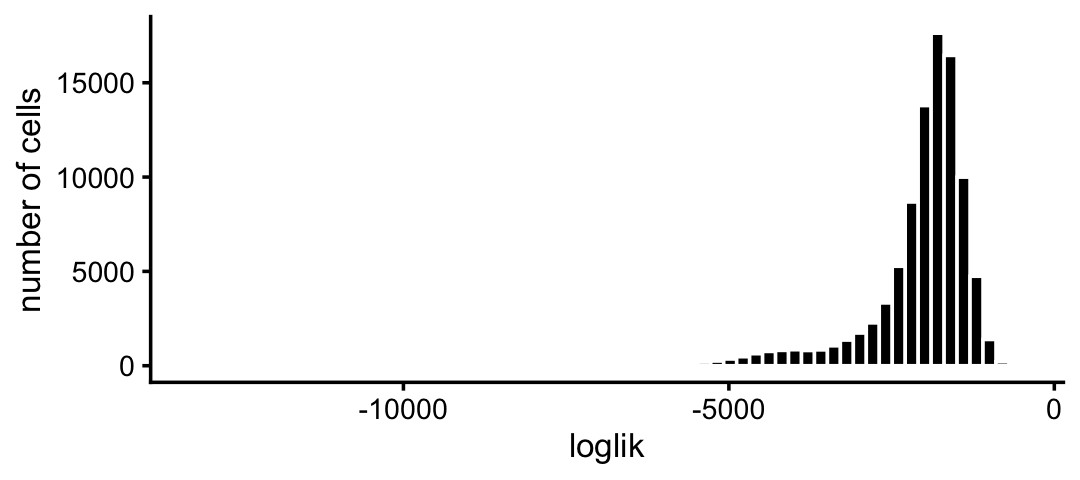
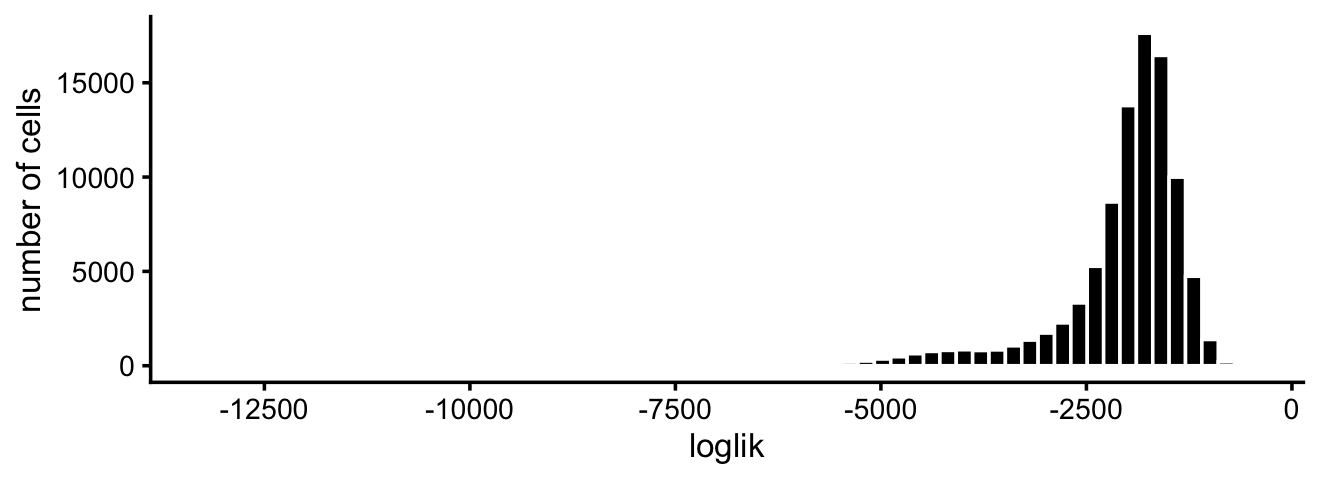
Added scatterplots to loglik_purified_pbmc analysis.

diff --git a/docs/loglik_purified_pbmc.html b/docs/loglik_purified_pbmc.html
@@ -414,16 +414,16 @@ This reproducible <a href="http://rmarkdown.rstudio.com">R Markdown</a> analysis
 <div class="panel panel-default">
 <div class="panel-heading">
 <p class="panel-title">
-<a data-toggle="collapse" data-parent="#workflowr-checks" href="#strongRepositoryversionstrongahrefhttpsgithubcomstephenslabsinglecelltopicstree8e9270771220b3809096bd8e904e0ac6025f418dtargetblank8e92707a"> <span class="glyphicon glyphicon-ok text-success" aria-hidden="true"></span> <strong>Repository version:</strong> <a href="https://github.com/stephenslab/single-cell-topics/tree/8e9270771220b3809096bd8e904e0ac6025f418d" target="_blank">8e92707</a> </a>
+<a data-toggle="collapse" data-parent="#workflowr-checks" href="#strongRepositoryversionstrongahrefhttpsgithubcomstephenslabsinglecelltopicstree08811819bd1abba43da9df88746b8385cda47a9ctargetblank0881181a"> <span class="glyphicon glyphicon-ok text-success" aria-hidden="true"></span> <strong>Repository version:</strong> <a href="https://github.com/stephenslab/single-cell-topics/tree/08811819bd1abba43da9df88746b8385cda47a9c" target="_blank">0881181</a> </a>
 </p>
 </div>
[2 lines of base64/hex data omitted]
 <div class="panel-body">
 <p>
 Great! You are using Git for version control. Tracking code development and connecting the code version to the results is critical for reproducibility.
 </p>
 <p>
-The results in this page were generated with repository version <a href="https://github.com/stephenslab/single-cell-topics/tree/8e9270771220b3809096bd8e904e0ac6025f418d" target="_blank">8e92707</a>. See the <em>Past versions</em> tab to see a history of the changes made to the R Markdown and HTML files.
+The results in this page were generated with repository version <a href="https://github.com/stephenslab/single-cell-topics/tree/08811819bd1abba43da9df88746b8385cda47a9c" target="_blank">0881181</a>. See the <em>Past versions</em> tab to see a history of the changes made to the R Markdown and HTML files.
 </p>
 <p>
 Note that you need to be careful to ensure that all relevant files for the analysis have been committed to Git prior to generating the results (you can use <code>wflow_publish</code> or <code>wflow_git_commit</code>). workflowr only checks the R Markdown file, but you know if there are other scripts or data files that it depends on. Below is the status of the Git repository when the results were generated:
@@ -447,7 +447,12 @@ Ignored files:
     Ignored:    output/pulseseq/rds/
 
 Untracked files:
+    Untracked:  .DS_Store
+    Untracked:  analysis/clustering-pbmc-purified.rds
     Untracked:  plots/
+
+Unstaged changes:
+    Modified:   analysis/clusters_purified_pbmc.Rmd
 
 </code></pre>
 <p>
@@ -486,6 +491,40 @@ Message
 </tr>
 </thead>
 <tbody>
+<tr>
+<td>
+Rmd
+</td>
+<td>
+<a href="https://github.com/stephenslab/single-cell-topics/blob/08811819bd1abba43da9df88746b8385cda47a9c/analysis/loglik_purified_pbmc.Rmd" target="_blank">0881181</a>
+</td>
+<td>
+Peter Carbonetto
+</td>
+<td>
+2021-01-04
+</td>
+<td>
+workflowr::wflow_publish(“loglik_purified_pbmc.Rmd”)
+</td>
+</tr>
+<tr>
+<td>
+html
+</td>
+<td>
+<a href="https://rawcdn.githack.com/stephenslab/single-cell-topics/9f648fdc27478b5c1c848d49ad45b6230293d0a5/docs/loglik_purified_pbmc.html" target="_blank">9f648fd</a>
+</td>
+<td>
+Peter Carbonetto
+</td>
+<td>
+2021-01-04
+</td>
+<td>
+Added histograms to loglik_purified_pbmc analysis.
+</td>
+</tr>
 <tr>
 <td>
 Rmd
@@ -580,26 +619,137 @@ samples &lt;- readRDS(&quot;../output/pbmc-purified/clustering-pbmc-purified.rds
 <pre class="r"><code>pdat &lt;- data.frame(loglik)
 p1 &lt;- ggplot(pdat,aes(loglik)) +
   geom_histogram(bins = 64,color = &quot;white&quot;,fill = &quot;black&quot;) +
+  scale_x_continuous(breaks = seq(-20000,0,2500)) +
   labs(y = &quot;number of cells&quot;) +
   theme_cowplot(font_size = 10)
 print(p1)</code></pre>
-<p><img src="figure/loglik_purified_pbmc.Rmd/loglik-2-1.png" width="540" style="display: block; margin: auto;" /></p>
+<p><img src="figure/loglik_purified_pbmc.Rmd/loglik-2-1.png" width="660" style="display: block; margin: auto;" /></p>
+<p>
+<button type="button" class="btn btn-default btn-xs btn-workflowr btn-workflowr-fig" data-toggle="collapse" data-target="#fig-loglik-2-1">
+Past versions of loglik-2-1.png
+</button>
+</p>
+<div id="fig-loglik-2-1" class="collapse">
+<div class="table-responsive">
+<table class="table table-condensed table-hover">
+<thead>
+<tr>
+<th>
+Version
+</th>
+<th>
+Author
+</th>
+<th>
+Date
+</th>
+</tr>
+</thead>
+<tbody>
+<tr>
+<td>
+<a href="https://github.com/stephenslab/single-cell-topics/blob/9f648fdc27478b5c1c848d49ad45b6230293d0a5/docs/figure/loglik_purified_pbmc.Rmd/loglik-2-1.png" target="_blank">9f648fd</a>
+</td>
+<td>
+Peter Carbonetto
+</td>
+<td>
+2021-01-04
+</td>
+</tr>
+</tbody>
+</table>
+</div>
+</div>
 <p>Most of the poorly fit cells are in the CD34+ subpopulation:</p>
 <pre class="r"><code>x &lt;- as.character(samples$celltype)
+x[x == &quot;CD14+ Monocyte&quot;] &lt;- &quot;CD14+&quot;
 x[x == &quot;CD4+/CD45RA+/CD25- Naive T&quot;] &lt;- &quot;T cell&quot;
-x[x == &quot;CD8+ Cytotoxic T&quot;] &lt;- &quot;T cell&quot;
 x[x == &quot;CD4+/CD45RO+ Memory&quot;] &lt;- &quot;T cell&quot;
 x[x == &quot;CD8+/CD45RA+ Naive Cytotoxic&quot;] &lt;- &quot;T cell&quot;
 x[x == &quot;CD4+ T Helper2&quot;] &lt;- &quot;T cell&quot;
 x[x == &quot;CD4+/CD25 T Reg&quot;] &lt;- &quot;T cell&quot;
+x &lt;- factor(x)
 pdat &lt;- data.frame(loglik = loglik,celltype = x)
 p2 &lt;- ggplot(pdat,aes(x = loglik)) +
   geom_histogram(bins = 64,color = &quot;white&quot;,fill = &quot;black&quot;) +
-  facet_grid(rows = vars(celltype),scales = &quot;free&quot;) +
+  facet_wrap(vars(celltype),scales = &quot;free_y&quot;,ncol = 2) +
+  scale_x_continuous(breaks = seq(-20000,0,2500)) +
   labs(y = &quot;number of cells&quot;) +
   theme_cowplot(font_size = 9)
 print(p2)</code></pre>
-<p><img src="figure/loglik_purified_pbmc.Rmd/loglik-3-1.png" width="480" style="display: block; margin: auto;" /></p>
+<p><img src="figure/loglik_purified_pbmc.Rmd/loglik-3-1.png" width="720" style="display: block; margin: auto;" /></p>
+<p>
+<button type="button" class="btn btn-default btn-xs btn-workflowr btn-workflowr-fig" data-toggle="collapse" data-target="#fig-loglik-3-1">
+Past versions of loglik-3-1.png
+</button>
+</p>
+<div id="fig-loglik-3-1" class="collapse">
+<div class="table-responsive">
+<table class="table table-condensed table-hover">
+<thead>
+<tr>
+<th>
+Version
+</th>
+<th>
+Author
+</th>
+<th>
+Date
+</th>
+</tr>
+</thead>
+<tbody>
+<tr>
+<td>
+<a href="https://github.com/stephenslab/single-cell-topics/blob/9f648fdc27478b5c1c848d49ad45b6230293d0a5/docs/figure/loglik_purified_pbmc.Rmd/loglik-3-1.png" target="_blank">9f648fd</a>
+</td>
+<td>
+Peter Carbonetto
+</td>
+<td>
+2021-01-04
+</td>
+</tr>
+</tbody>
+</table>
+</div>
+</div>
+<p>Here, we compare the single-cell likelihoods under the multinomial topic model against the likelihoods under a simple “hard clustering” model in which the cells in each FACS subpopulation share the same underlying pattern of expression. This serves as a simple “sanity check”, as we expect the fit to improve with the more flexible topic model.</p>
+<pre class="r"><code>fit_subpop &lt;- init_poisson_nmf_from_clustering(counts,x)
+fit_subpop &lt;- poisson2multinom(fit_subpop)
+loglik_subpop &lt;- loglik_multinom_topic_model(counts,fit_subpop)</code></pre>
+<p>Indeed, the topic model provides a better fit for almost all cells:</p>
+<pre class="r"><code>facs_colors &lt;- c(&quot;dodgerblue&quot;,  # B cells
+                 &quot;forestgreen&quot;, # CD14+
+                 &quot;darkmagenta&quot;, # CD34+
+                 &quot;gray&quot;,        # NK cells
+                 &quot;tomato&quot;,      # cytotoxic T cells
+                 &quot;gold&quot;)        # T cells
+pdat &lt;- data.frame(x = loglik_subpop,y = loglik,celltype = x)
+p3 &lt;- ggplot(pdat,aes(x = x,y = y,fill = celltype)) +
+  geom_point(shape = 21,color = &quot;white&quot;) +
+  geom_abline(intercept = 0,slope = 1,linetype = &quot;dotted&quot;) +
+  scale_x_continuous(limits = c(-15000,0),breaks = seq(-20000,0,2500)) +
+  scale_y_continuous(limits = c(-15000,0),breaks = seq(-20000,0,2500)) +
+  scale_fill_manual(values = facs_colors) +
+  labs(x = &quot;cluster model&quot;,y = &quot;topic model&quot;,fill = &quot;FACS subpopulation&quot;) +
+  theme_cowplot(font_size = 9)
+print(p3)</code></pre>
+<p><img src="figure/loglik_purified_pbmc.Rmd/loglik-5-1.png" width="480" style="display: block; margin: auto;" /></p>
+<p>The improvement in fit is greatest for the CD34+ and T cell FACS subpopulations:</p>
+<pre class="r"><code>p4 &lt;- ggplot(pdat,aes(x = x,y = y,fill = celltype)) +
+  geom_point(shape = 21,color = &quot;white&quot;) +
+  geom_abline(intercept = 0,slope = 1,linetype = &quot;dotted&quot;) +
+  facet_wrap(vars(celltype)) +
+  scale_x_continuous(limits = c(-15000,0),breaks = seq(-20000,0,5000)) +
+  scale_y_continuous(limits = c(-15000,0),breaks = seq(-20000,0,5000)) +
+  scale_fill_manual(values = facs_colors) +
+  labs(x = &quot;cluster model&quot;,y = &quot;topic model&quot;,fill = &quot;FACS subpopulation&quot;) +
+  theme_cowplot(font_size = 9)
+print(p4)</code></pre>
+<p><img src="figure/loglik_purified_pbmc.Rmd/loglik-6-1.png" width="780" style="display: block; margin: auto;" /></p>
 <br>
 <p>
 <button type="button" class="btn btn-default btn-workflowr btn-workflowr-sessioninfo" data-toggle="collapse" data-target="#workflowr-sessioninfo" style="display: block;">
@@ -623,7 +773,7 @@ print(p2)</code></pre>
 # [1] stats     graphics  grDevices utils     datasets  methods   base     
 # 
 # other attached packages:
-# [1] cowplot_1.0.0     ggplot2_3.3.0     fastTopics_0.4-11 Matrix_1.2-18    
+# [1] cowplot_1.0.0     ggplot2_3.3.0     fastTopics_0.4-13 Matrix_1.2-18    
 # 
 # loaded via a namespace (and not attached):
 #  [1] ggrepel_0.9.0        Rcpp_1.0.5           lattice_0.20-38     
